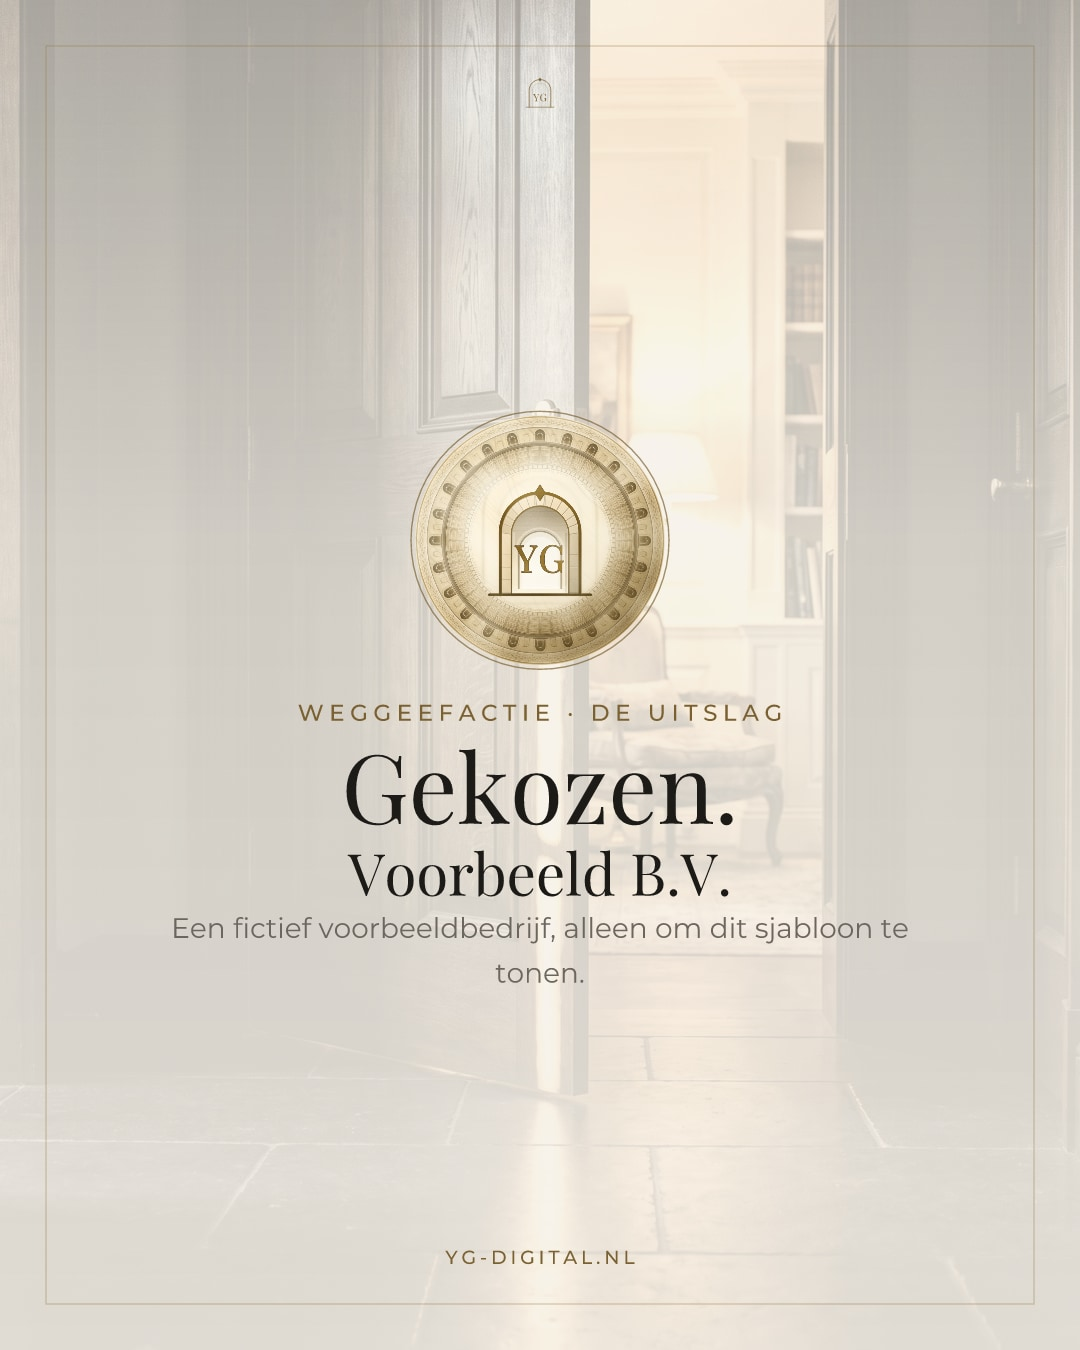
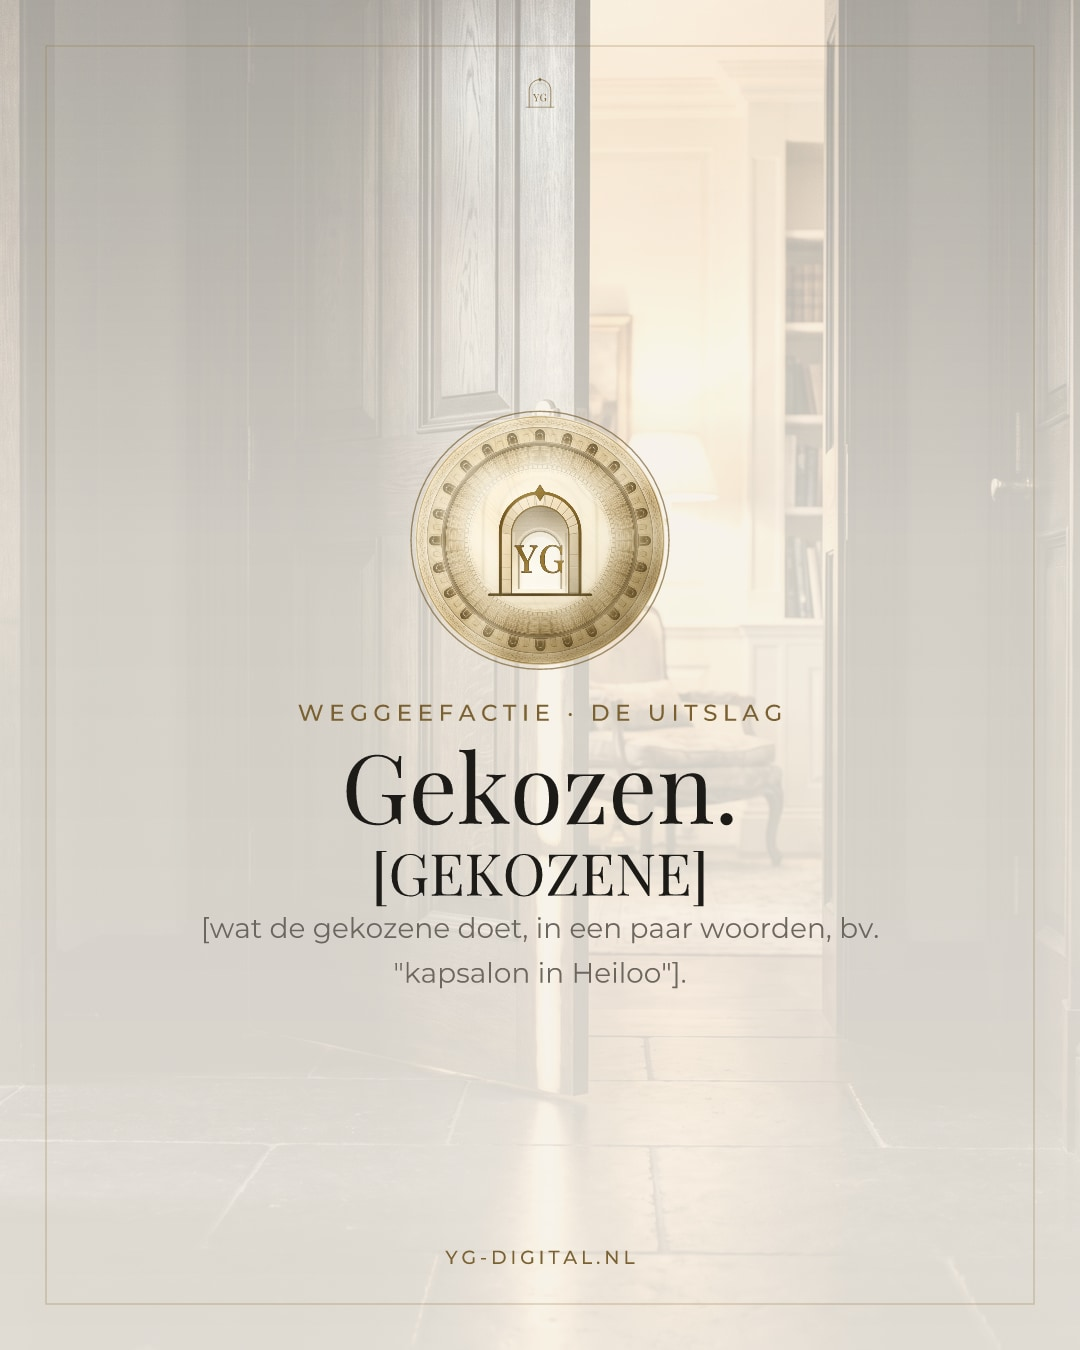
Pakket A37 klaar als sjabloon met [GEKOZENE] (niet ingepland) — wo 4 nov
gekozen.txt nu met plaatshouders [GEKOZENE], [GEKOZENE-HANDLE] en de waarom-regels; maak-a37.cjs zet de handle in het bijschrift en kan een beeld van de gekozene op plaat 1 zetten (getest met een proefbeeld, daarna weggehaald). Map was al hernoemd naar 2026-11-04. Proef geslaagd; het script meldt PLAATSHOUDER zolang er iets tussen [ ] staat.

Changed region(s): [[0.1528, 0.6222, 0.825, 0.7467]]

diff --git a/docs/keurlijst.md b/docs/keurlijst.md
@@ -13,3 +13,4 @@ vastgestelde stijlgids (om en om licht/donker); het raster per code laat de hele
 | G03 | wo 2 dec | Werkwijze (donker): "Antwoord binnen één werkdag." — persoonlijk, per e-mail of telefoon (staat zo op yg-digital.nl en /contact), 3 platen. **Let op:** staat donker na T04 (donker); zie Vragen in het logboek. | `preview/raster-G03.jpg` · `pakketten/2026-12-02-G03-werkwijze/overzicht.jpg` |
 | K07 | vr 4 dec | Conceptproject auto (licht): fictieve Garage Wendhoek (naam gezocht 30 okt, geen bedrijf gevonden), "Wanneer kan mijn auto erin?" — APK plannen bovenaan, diensten als kaarten, adres/tijden in één regel; vorm Foto, geen kenteken in beeld, slot met echte studio-opname, 5 platen. | `preview/raster-K07.jpg` · `pakketten/2026-12-04-K07-garage/overzicht.jpg` |
 | T05 | ma 7 dec | Feit (donker): "Uw reviews staan op Google. Niet op uw site." — bron Google-bedrijfsprofiel Help (reviews "naast uw bedrijfsprofiel op Maps en Zoeken"); gouden sterren, 2 platen. | `preview/raster-T05.jpg` · `pakketten/2026-12-07-T05-feit/overzicht.jpg` |
+| A37 | wo 4 nov | Bekendmaking weggeefactie (licht, Deur): sjabloon met plaatshouder [GEKOZENE] en handle; na het citaat met de naam vult Manon `bron/gekozen.txt` in (naam, handle, waarom-regels, eventueel beeld) en draait `maak-a37.cjs`. **Pas keuren na invullen**; nu alleen ter inzage. 4 platen. | `preview/raster-A37.jpg` · `pakketten/2026-11-04-A37-bekendmaking/overzicht.jpg` |

diff --git a/docs/oplevering-manon.md b/docs/oplevering-manon.md
@@ -11,6 +11,8 @@ VRAGEN:
 - Komt A37 niet op wo 4 nov, dan staan Z01 en T02 (beide donker) naast elkaar · aanname: A37 haalt wo 4 nov; anders A37 naar vr 6 nov en T02 een plek op (Eva 30 okt), alleen voorstellen · doorwerken: ja · blokkeert nee
 - De ontwerpstudio (eerste-ontwerp) toont onder het ontwerp nog "Beheer € 45 per maand, inclusief btw (€ 37,19 exclusief)"; /yg-launch en Z01 zeggen € 49 excl. btw · aanname: Eva of Lotte past de studiotekst aan; mijn pakketten tonen dat stuk niet · doorwerken: ja · blokkeert nee
 
+KLAAR: pakket A37 klaar als sjabloon met [GEKOZENE] (niet ingepland; wacht op naam als citaat en pakket OK) · zie commit "Pakket A37 klaar als sjabloon"
+
 KLAAR: pakket W04 klaar (niet ingepland) · eedf92e
 
 KLAAR: pakket G02 klaar (niet ingepland) · f8de55d
